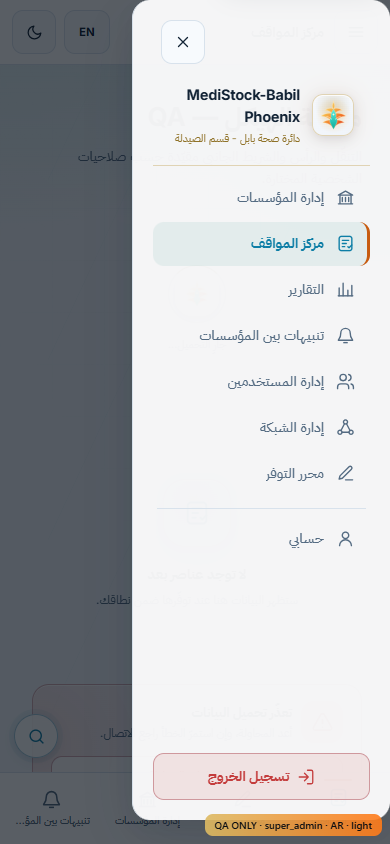
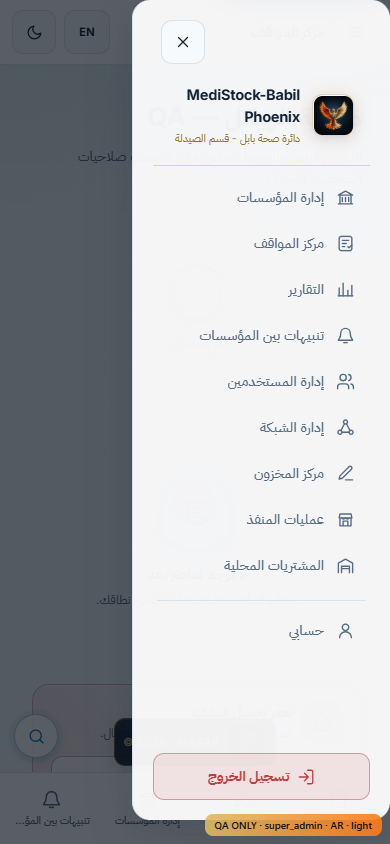
feat(visual): Local Procurement reachable in mobile drawer + refreshed shell/welcome/dashboard evidence
The mobile drawer mirrored the desktop sidebar's operational list but had
not gained Screen 19; add nav_local_procurement so it is reachable on
mobile too (self-gated by 062 warehouse scope + scoped keys, re-checked
server-side). Recaptures shell (realistic Phoenix mark, drawer with
Local Procurement, tablet column), welcome (verifies the exact Arabic
credits still render after the dead-CSS cleanup), and dashboard.

diff --git a/src/shared/ui/PhoenixMobileDrawer.tsx b/src/shared/ui/PhoenixMobileDrawer.tsx
@@ -36,6 +36,10 @@ const ALL_NAV: {
   // OUTLET-CORRIDOR: ungated like nav_editor — the screen self-gates by the
   // profile's 062 outlet assignments; every action is re-checked server-side.
   { screen: 18, icon: 'outlet', labelKey: 'nav_outlet_ops' },
+  // INSTITUTION-LOCAL-PROCUREMENT-087: mirrors the desktop sidebar entry so
+  // Screen 19 is reachable on mobile too; the screen self-gates by 062
+  // warehouse scope + the scoped local_procurement.* keys, re-checked server-side.
+  { screen: 19, icon: 'warehouse', labelKey: 'nav_local_procurement' },
 ];
 
 // MOBILE-NAV-BRAND-POLISH-A: mirrors PhoenixSidebar's SECONDARY_ITEMS so the
